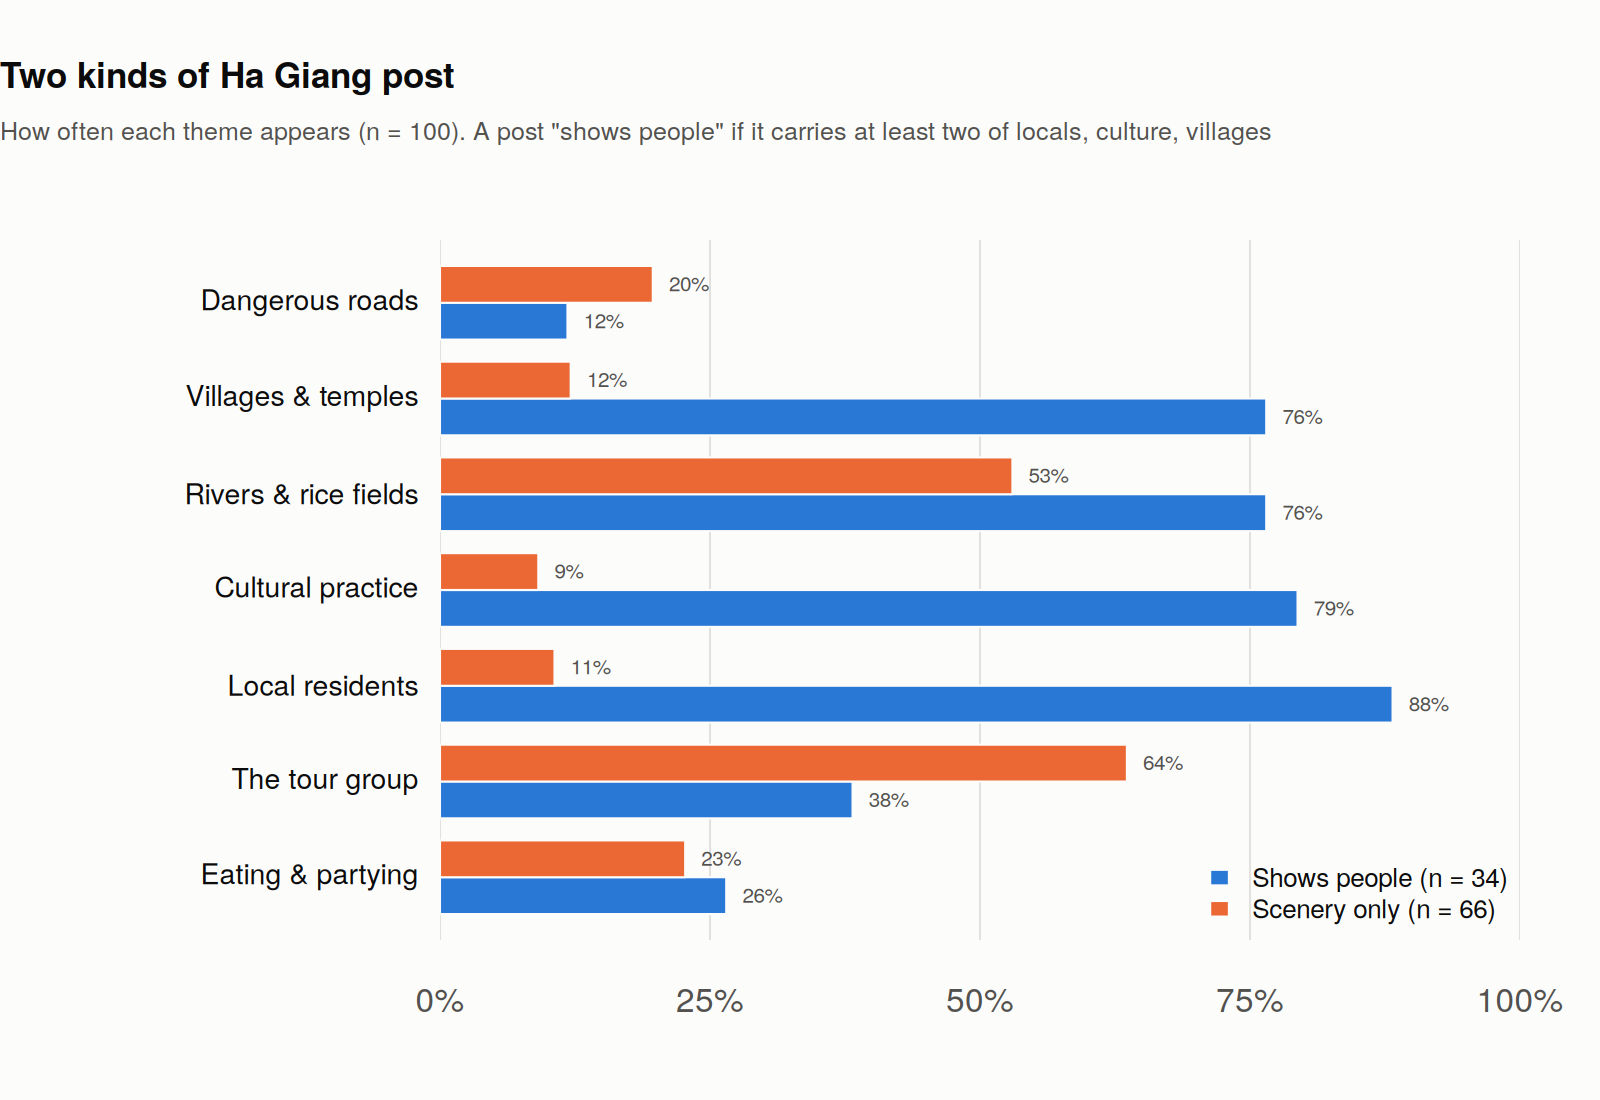
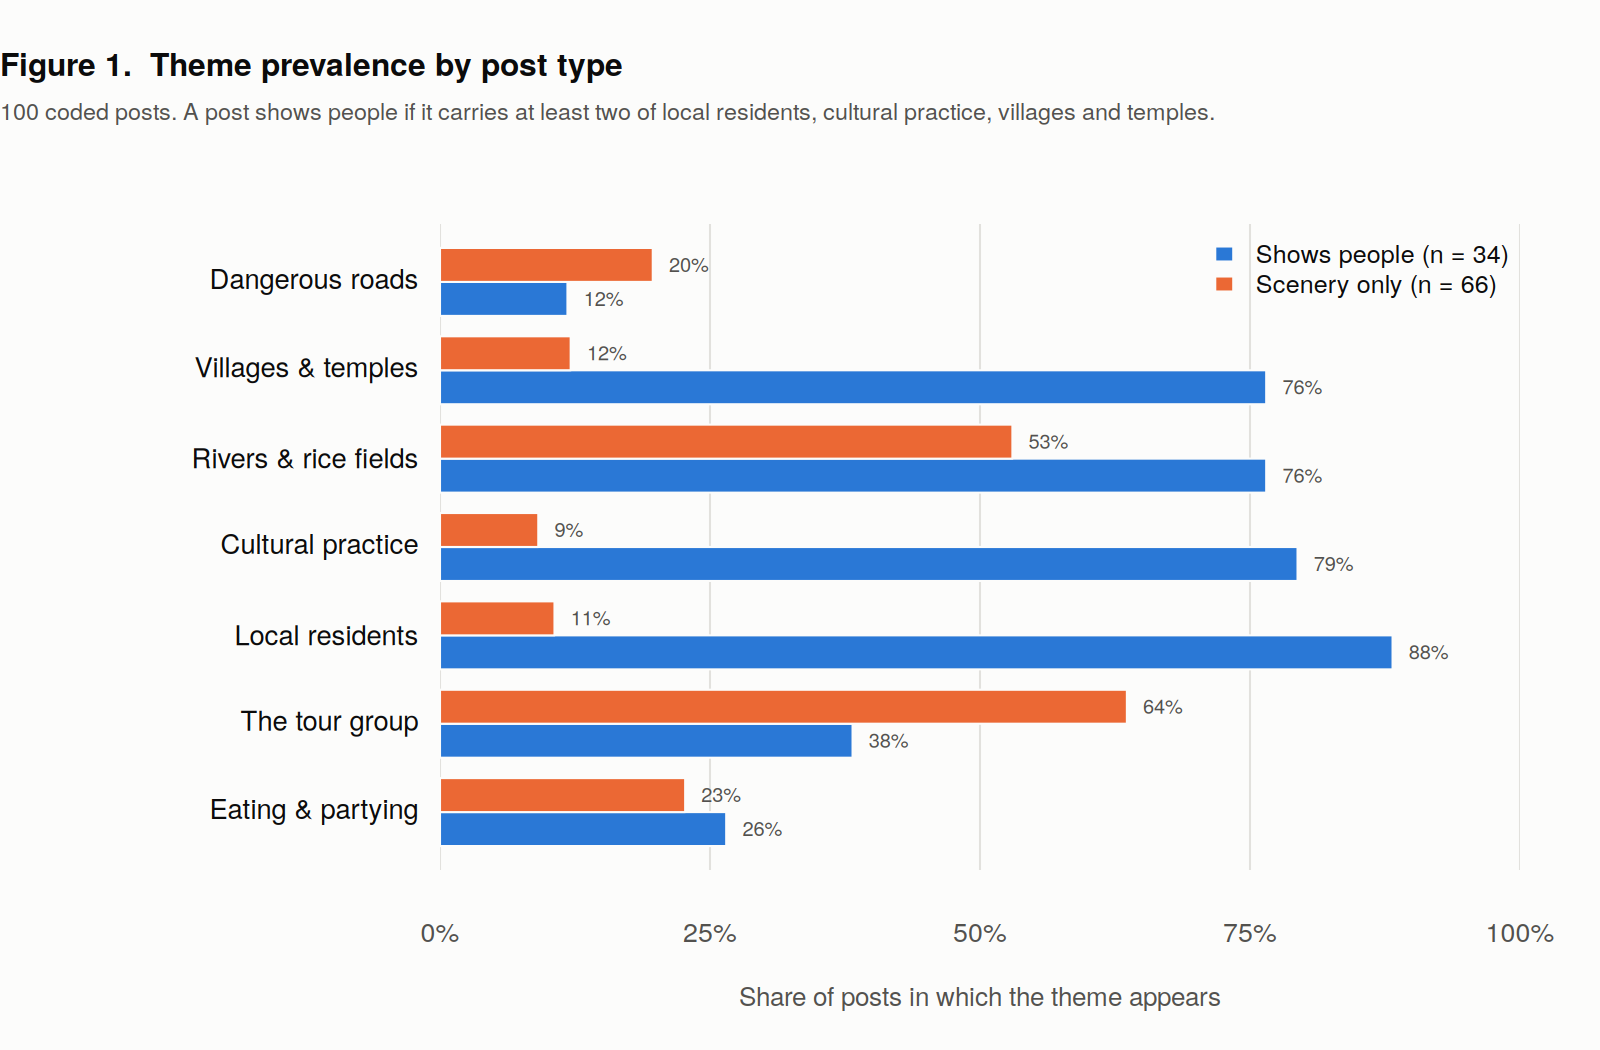
Label figures conventionally
Numbered descriptive titles with a method note underneath, and an axis label on
every axis. The figures state what is plotted; the interpretation stays in the
README text beside them.

diff --git a/README.md b/README.md
@@ -25,7 +25,7 @@ accounts against TikTok's 54%, and Instagram shows local residents more often
 whoever posts. Put platform in the model and account type falls from p=.044 to
 p=.098.
 
-![My original finding was platform, not account type](figures/04_confounding.png)
+![Figure 4. Effect of account type on depicting local residents](figures/04_confounding.png)
 
 I also ran fourteen bivariate tests and reported one. Under Holm correction the one
 I reported ranks fourth and doesn't survive, at p_holm = .49. Two others do, and the
@@ -56,7 +56,7 @@ Three of my seven codes describe human presence: locals, cultural practice,
 villages and temples. Count them per post. A post carrying at least two of the
 three is showing a place with people in it; one or none means scenery.
 
-![Two kinds of Ha Giang post](figures/01_content_types.png)
+![Figure 1. Theme prevalence by post type](figures/01_content_types.png)
 
 66 of the 100 posts are scenery, and 45 carry none of the three codes at all.
 Operator accounts show a populated place in 19% of posts against 43% for traveller
@@ -77,7 +77,7 @@ account type makes no difference to breadth at all (p = .31).
 I asked every respondent both where they found the Loop and where they post about
 it, so the comparison is paired within person.
 
-![TikTok recruits, Instagram archives](figures/02_discovery_vs_publication.png)
+![Figure 2. Platform of discovery and platform of publication](figures/02_discovery_vs_publication.png)
 
 27 found the Loop through TikTok. Two of them post to TikTok. Nine found it through
 Instagram and 55 post to Instagram. Exact McNemar gives p = 2.7e-05 and 3.5e-13.
@@ -88,7 +88,7 @@ measurably different pictures of the same place.
 
 ## The gap that beats all of it
 
-![Everyone enjoys the people; few posts show them](figures/03_representation_gap.png)
+![Figure 3. Reported enjoyment of local interaction, and depiction of locals in posts](figures/03_representation_gap.png)
 
 All 61 respondents rated "I enjoyed interactions with locals, staff and easyriders"
 at 4 or 5. Two named culture or socialising as a reason for going, against 40 who
